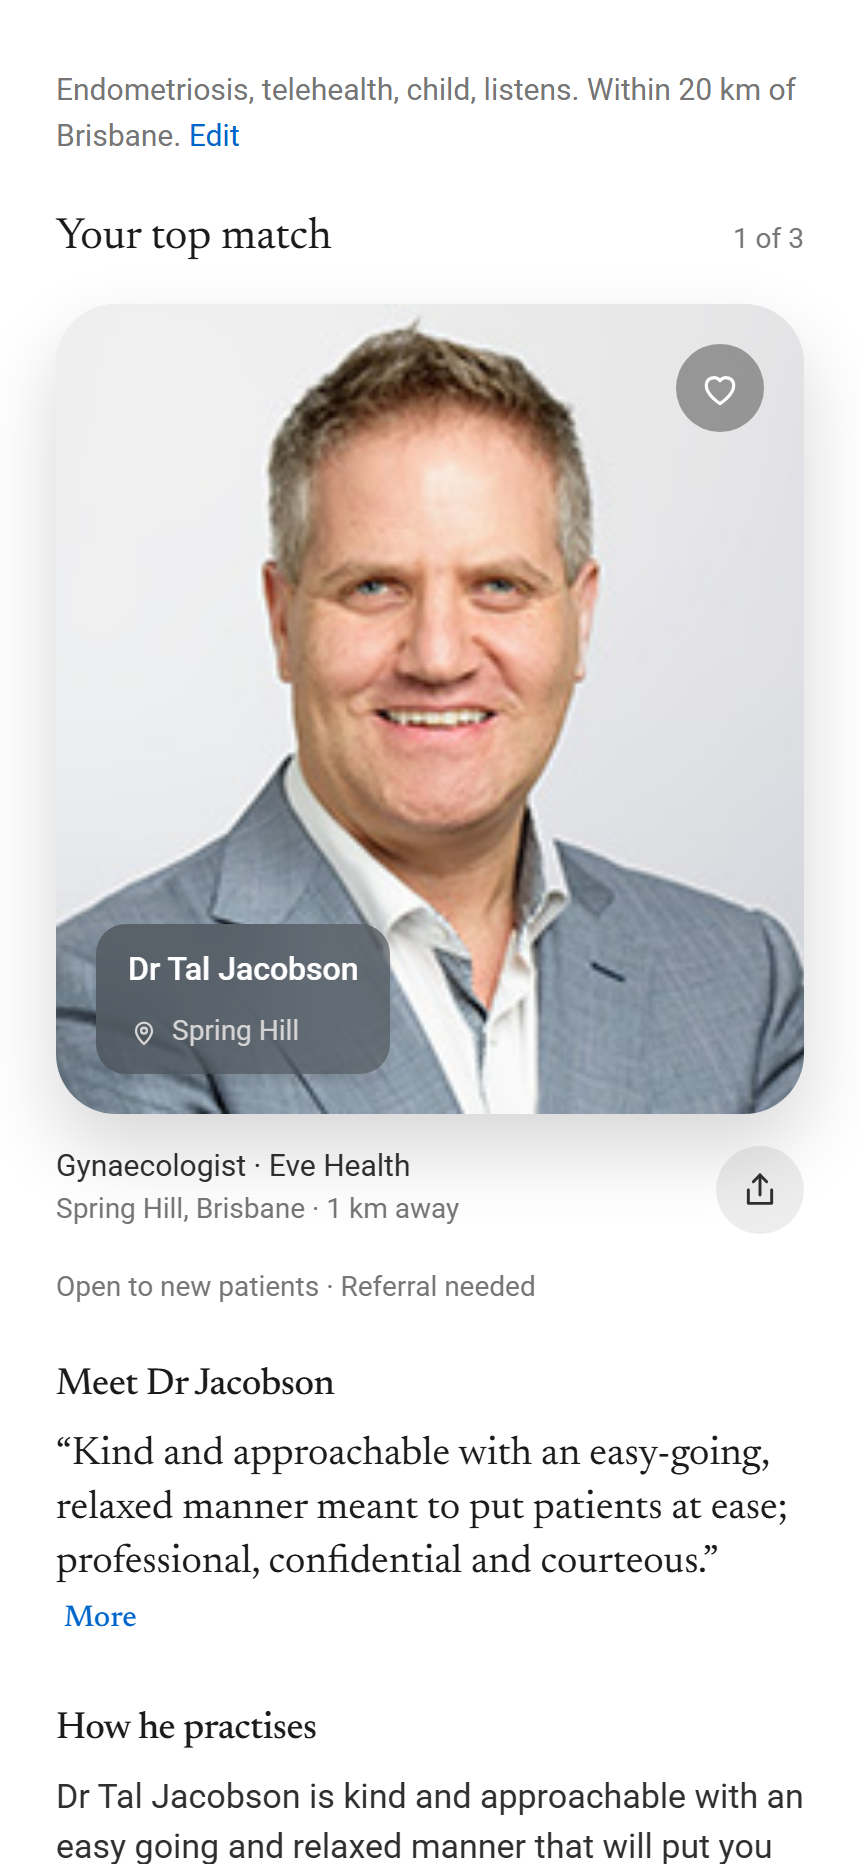
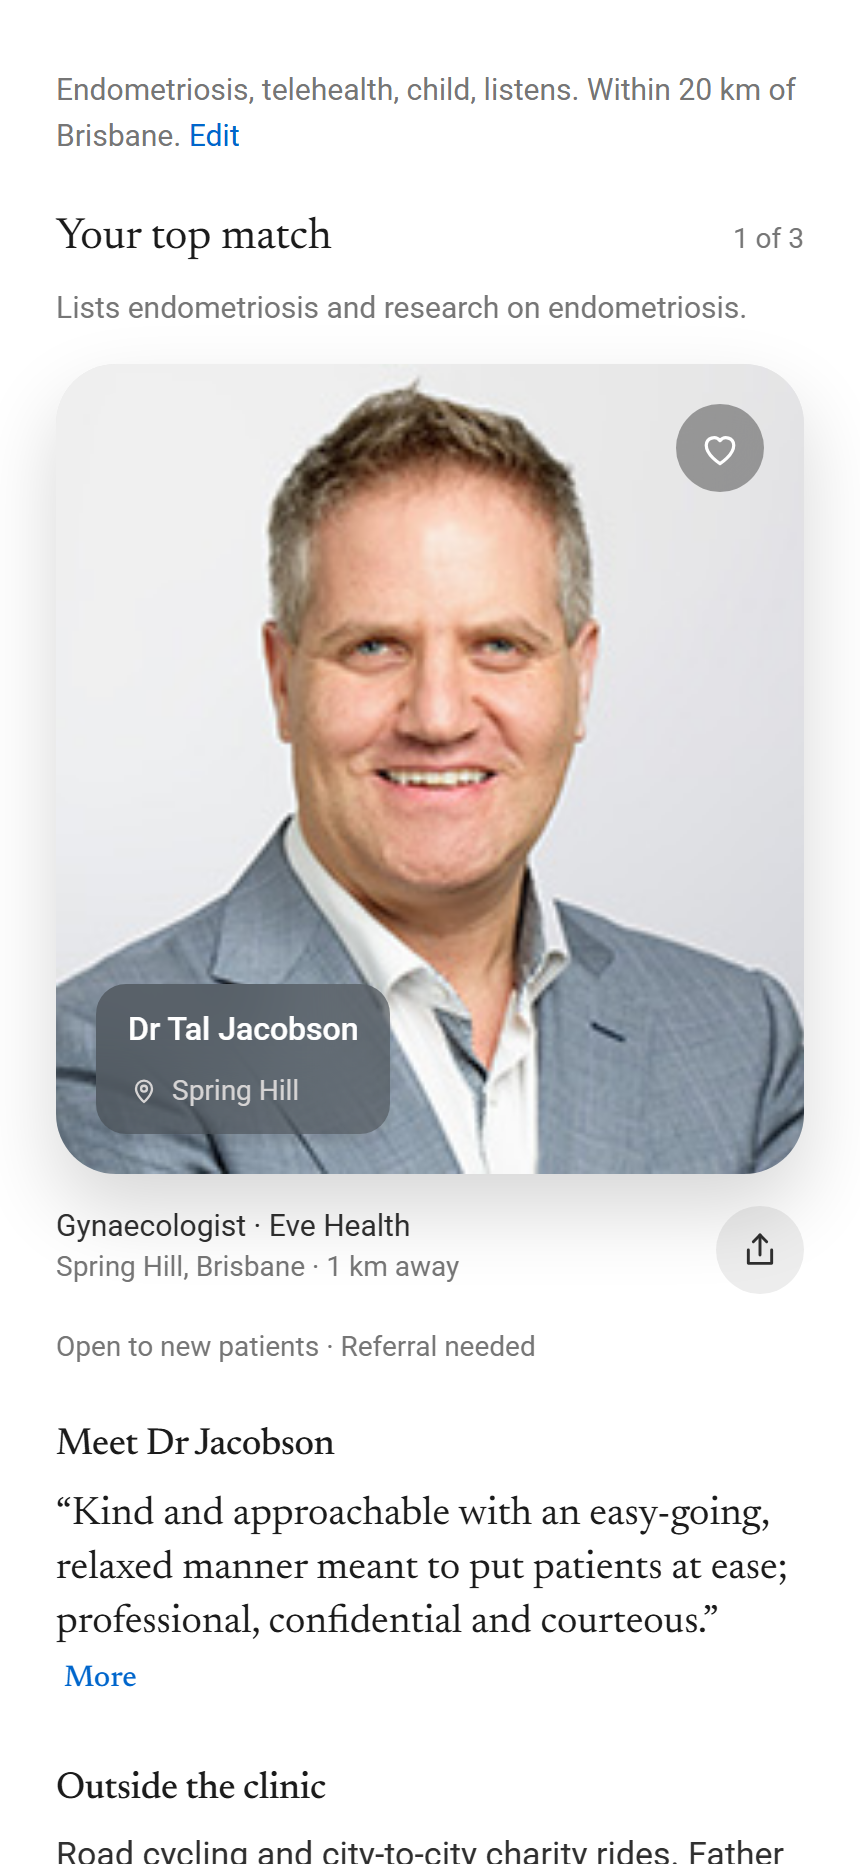
ui: each match in the journey says in one line why it was picked

Changed region(s): [[0.0605, 0.1556, 0.9372, 1.0], [0.0605, 0.1556, 0.1209, 0.1867]]

diff --git a/src/ui/screens/patient-a/Matches.tsx b/src/ui/screens/patient-a/Matches.tsx
@@ -13,7 +13,7 @@ import { ProfileBody } from "@/src/ui/screens/patient-b/Profile";
 import { ContactCta, ShareCircle } from "@/src/ui/screens/patient-b/ProfileClient";
 import { placeOf, primaryRoom, specialtyTitle } from "@/src/ui/screens/patient-b/facts";
 import { Dock } from "./Dock";
-import { Portrait } from "./DoctorCard";
+import { fitSentence, Portrait } from "./DoctorCard";
 import { REACH_KM, restoreCounts, runMatch } from "./lib";
 
 const ORDINAL = ["Your top match", "Your second match", "Your third match"];
@@ -40,6 +40,7 @@ function MatchSection({ card, index, total, labels, saved, onSave }: { card: Car
         <p className="font-display text-[22px] text-ink">{ORDINAL[index]}</p>
         <p className="text-[14px] text-grey">{index + 1} of {total}</p>
       </div>
+      <p className="-mt-2 mb-4 text-[15px] leading-[1.45] text-grey">{fitSentence(card, labels)}</p>
       <Portrait d={d} saved={saved} onSave={onSave} eager={index === 0} />
       <div className="mt-4 flex items-start justify-between gap-4">
         <Link href={doctorHref(d.id)} className="press-dim min-w-0">
